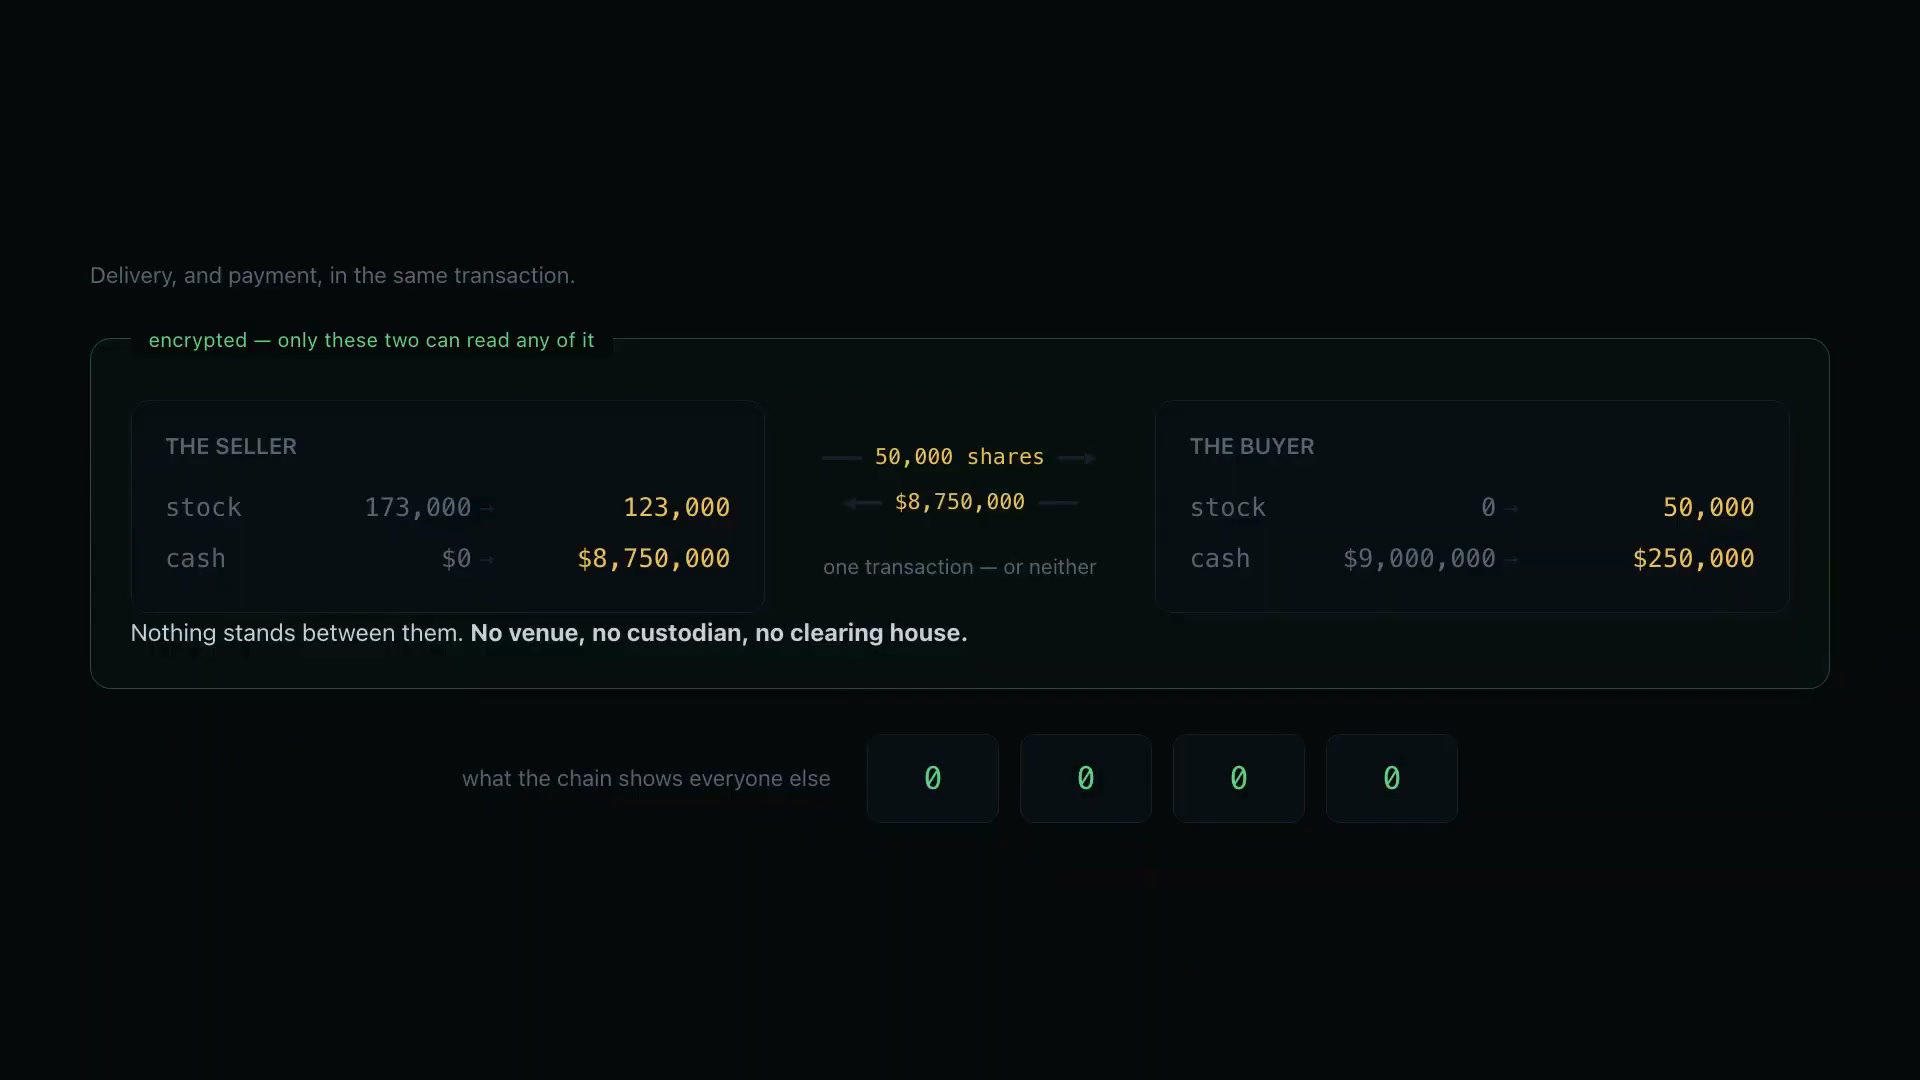
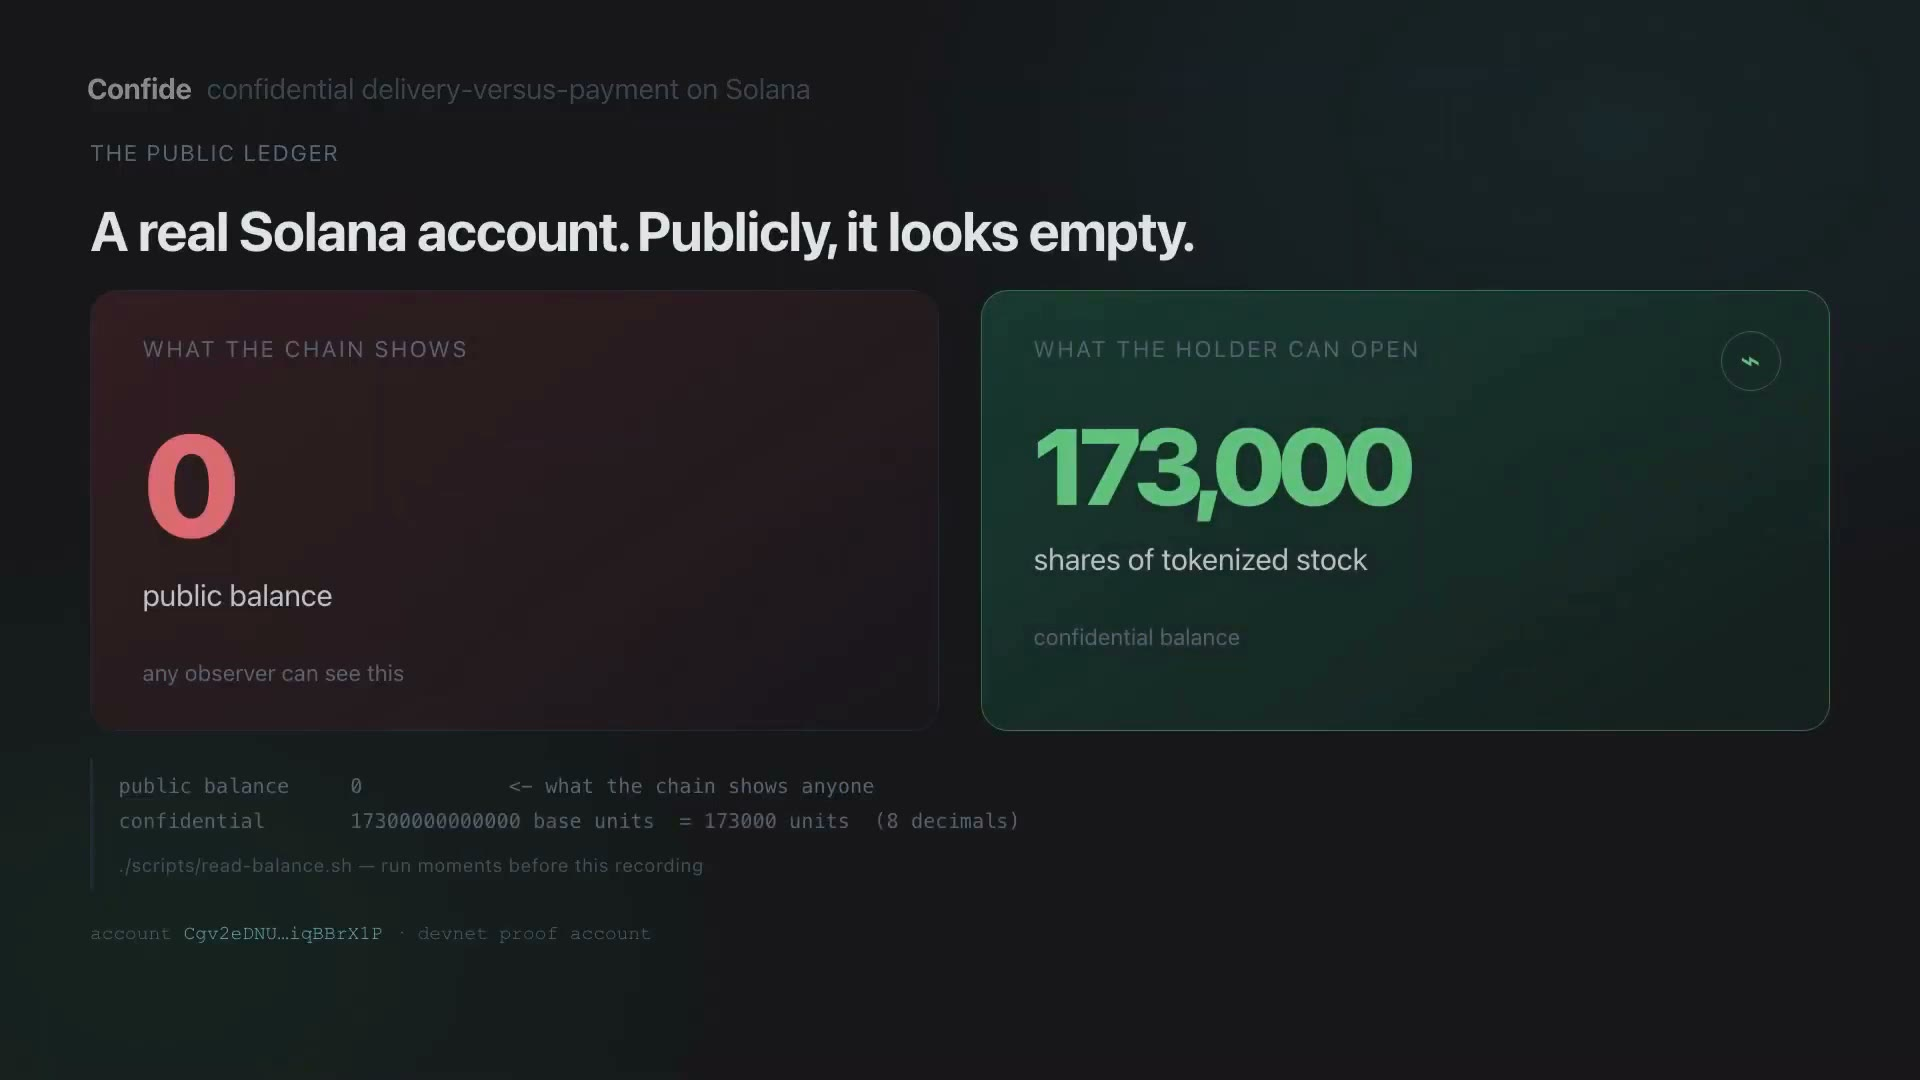
links: move every surface to du0Twt_c9wQ
The founder uploaded the restructured cut. Confirmed live and confirmed it is the
right one: YouTube's oEmbed returns the title we chose, word for word.

Moved: README.md, web/index.html (link, prose and the embed src), docs/DURABILITY.md,
scripts/healthcheck.sh. STATUS.md and video/README.md keep C86U3R0IgiU as the
record of the 09-22 upload and now say which one is current. docs-consistency.sh
derives the id from those files rather than holding one, so it confirmed the move
rather than needing to be told about it.

web/poster.jpg was a frame of the 09-20 cut -- two cuts old -- and it is the
og:image on every link preview of this project. It is now a frame of the film that
is actually published: scene 1 at 9s, both cards up, 0 beside 173,000.

video/README.md documents the current cut first and the 09-22 one as superseded.

NOTE, AND IT IS THE FOUNDER'S CALL: https://youtu.be/C86U3R0IgiU still returns
200. STATUS.md records the reasoning from 09-21, when the old uploads were deleted
-- while both are live, pasting the wrong link looks fine and is wrong, and the
09-22 video carries the pre-restructure narration under its own title and
description. Deleting or unlisting it is a founder action.

diff --git a/web/index.html b/web/index.html
@@ -184,8 +184,8 @@ b.bad{color:var(--red)}b.good{color:var(--grn)}
   </figure>
   <div class="note"><b>The presentation</b>, 2:22 &mdash; the trade, the count, and what is left.
   Click the frame, or
-  <a href="https://youtu.be/C86U3R0IgiU" target="_blank" rel="noopener">watch on YouTube</a>
-  (youtu.be/C86U3R0IgiU). Every terminal pane in it is the stdout of a command run
+  <a href="https://youtu.be/du0Twt_c9wQ" target="_blank" rel="noopener">watch on YouTube</a>
+  (youtu.be/du0Twt_c9wQ). Every terminal pane in it is the stdout of a command run
   moments before the recording; two of them reach mainnet and devnet.</div>
 
   <section style="border:0;padding:0;margin:0">
@@ -620,7 +620,7 @@ async function runProofs(){
 document.getElementById("vid").addEventListener("click", e => {
   const a = e.currentTarget;
   const f = document.createElement("iframe");
-  f.src = "https://www.youtube.com/embed/C86U3R0IgiU?autoplay=1";
+  f.src = "https://www.youtube.com/embed/du0Twt_c9wQ?autoplay=1";
   f.title = "Confide"; f.allowFullscreen = true;
   f.allow = "autoplay; encrypted-media; picture-in-picture";
   f.style.cssText = "position:absolute;inset:0;width:100%;height:100%;border:0";

diff --git a/video/README.md b/video/README.md
@@ -1,6 +1,20 @@
 # video
 
-## `Confide_Stocklana_20260922.mp4` — **published: https://youtu.be/C86U3R0IgiU**
+## `Confide_Stocklana_20260923.mp4` — **published: https://youtu.be/du0Twt_c9wQ**
+
+The current cut, **2:32**, and the one every surface points at. Narrated from the restructured
+script: the wordmark from the first frame, the category named out loud in scene 3, Token-2022 named
+in scene 5, the issuance and the gate refusing in 7 and 8, and an ending that hands the viewer a
+command instead of a disclosure. `./scripts/spoken-check.sh video/Confide_Stocklana_20260923.mp4`
+compares the voice against the script it was given.
+
+**Upload `captions-20260923.srt`, not the embedded track.** The ASR dropped the whole of scene 5 —
+57.3s to 78.2s, voice present at -21.4 dB — and hears the project's own name as *"confined"*.
+
+`web/poster.jpg` is a frame from this file: the two cards of scene 1, at 9s, after the reveal. It
+is the og:image on every link preview, and it was a frame of the 09-20 cut until 2026-09-23.
+
+## `Confide_Stocklana_20260922.mp4` — superseded, published as `C86U3R0IgiU`
 
 The delivered cut is **2:28**, 1920x1080, AAC stereo, with a caption track. The founder generated the voice and
 recomposited to it, so the file is 148.6s against the silent master's 177.1s — the two clocks
@@ -49,8 +63,11 @@ accounts"*, measured 09-17 and 465,520 four days later. Its narration was frozen
 `DELIVERED-20260920.md`, which this cut's `DELIVERED-20260922.md` replaces, the way that file said
 it should be.
 
-**Uploaded 2026-09-22 as `C86U3R0IgiU`**, and every surface that names the current video was moved
-to it: `README.md`, `web/index.html`, `docs/DURABILITY.md`, `scripts/healthcheck.sh` and `STATUS.md`.
+**Uploaded 2026-09-22 as `C86U3R0IgiU`, superseded 2026-09-23 by
+[`du0Twt_c9wQ`](https://youtu.be/du0Twt_c9wQ)** — the restructured cut, 2:32. Every surface that
+names the current video was moved to it: `README.md`, `web/index.html`, `docs/DURABILITY.md`,
+`scripts/healthcheck.sh` and `STATUS.md`. `docs-consistency.sh` derives the id from those files and
+fails if they disagree, so the move is one edit or none.
 `web/poster.jpg` is a frame from this file rather than from the old one, and the caption under it
 stopped calling it "the earlier walkthrough".
 

diff --git a/docs/DURABILITY.md b/docs/DURABILITY.md
@@ -105,6 +105,6 @@ throughout `docs/ONCHAIN.md`:
 | equality proof | accepted, 6,400 CU, `VerifyCiphertextCommitmentEquality` |
 | range proof | accepted, 111,000 CU, `VerifyBatchedRangeProofU64` |
 
-The walkthrough (https://youtu.be/C86U3R0IgiU) records the same runs, and `video/record.js` refuses to
+The walkthrough (https://youtu.be/du0Twt_c9wQ) records the same runs, and `video/record.js` refuses to
 record when a command stops producing the line that carries its claim — so a video that exists is a
 video whose claims were true when it was made.

diff --git a/README.md b/README.md
@@ -5,7 +5,7 @@ swap in one transaction**, with neither side publishing what moved. Confide buil
 zero-knowledge proofs the chain will not assemble for you, and lets each side check the other
 before signing — **with nobody in the middle**.
 
-### → [**Try it live**](https://psyto.github.io/confide/) · [**Watch, 2:32**](https://youtu.be/C86U3R0IgiU) · no wallet, no API key, no install
+### → [**Try it live**](https://psyto.github.io/confide/) · [**Watch, 2:32**](https://youtu.be/du0Twt_c9wQ) · no wallet, no API key, no install
 
 ---
 
